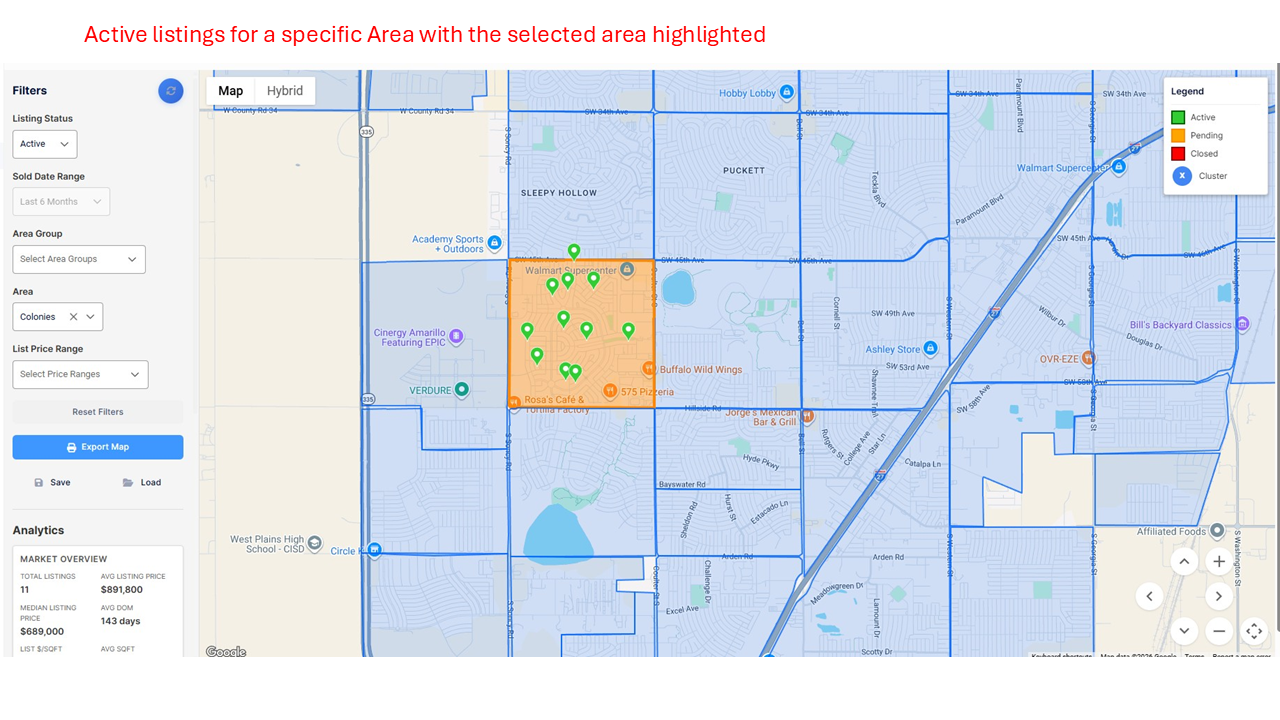
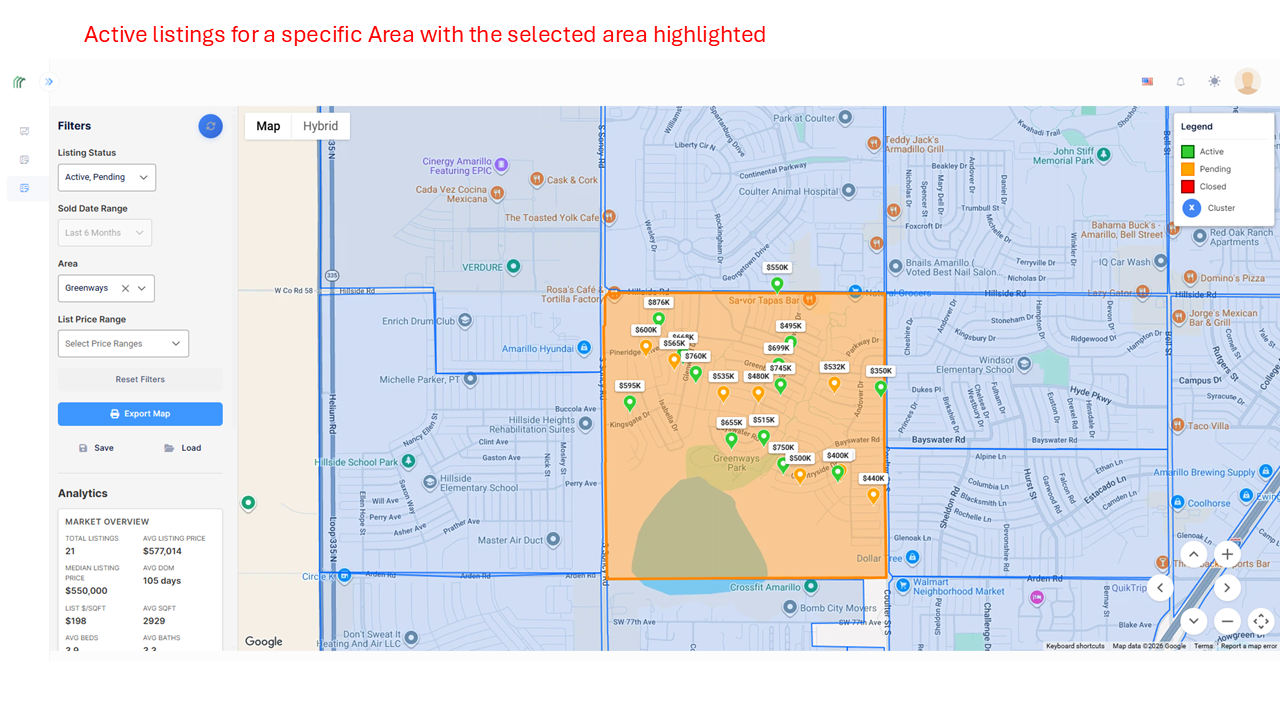
Update listing map, dashboard, navigation, and report schedule docs and images
Add pin price label and closed-listing sold price to listing map docs, add
dashboard Area filter section, update nav menu screenshots (admin, collapsed,
reporting, listings), remove Contacts nav section, fix report schedule typo
and docs-nav.json JSON errors.

diff --git a/ListingMap/listing-map.md b/ListingMap/listing-map.md
@@ -4,6 +4,8 @@ The Listing Map uses a Google Maps framework to display Active, Pending, and Clo
 
 The Analytics panel calculations use the current List Price for Active and Pending listings and the Closed price for Closed listings. When MLS data is loaded each day, all Active and Pending listings are included, but the data set includes only 13 months of Closed listings. Any Closed listing older than 13 months is ignored and not displayed on the map or in reports. 
 
+When the map is zoomed in far enough to distinguish individual pins, a label appears above each pin showing its List Price (Active or Pending) or Sold Price (Closed). Clicking a pin opens a details dialog with more information about the property; for Closed listings, this dialog also includes the Sold Price.
+
 The **Listing Status** filter can be either Active, Pending, Active and Pending, or Closed. All three status values cannot be selected together to avoid confusion in the Analytics calculations.
 
 The **Sold Date Range** filter is only available when the Status filter has Closed listings selected.
@@ -14,7 +16,7 @@ If a tenant has defined **Area Groups** for their MLS Area data, an Area Group d
 
 The **Reset Filters** button returns the map filters to the default of Active and Pending listing status with no other filters applied.
 
-The **Export Map'** button opens a Print dialog with two pages: the first is the map rendering, and the second contains the Analytics values. The user can save the output as a PDF or print it if printing is available.
+The **Export Map** button opens a Print dialog with two pages: the first is the map rendering, and the second contains the Analytics values. The user can save the output as a PDF or print it if printing is available.
 
 The **Save** button allows a user to save a map filter configuration for later use. A user can save up to 25 map filters.
 
@@ -26,10 +28,8 @@ The **Load** button allows a user to load a previously saved map filter.
 
 
 ## Listing Map - Example 2
-An example of selecting a specific Area for Active listings. The selected Area is highlighted and the Analytics calculated for the pins displayed. The pin details can be viewed by clicking on the pin.
+An example of selecting a specific Area for Active listings. The selected Area is highlighted and the Analytics calculated for the pins displayed. Since the map is zoomed in, each pin also shows its List Price label. The pin details can be viewed by clicking on the pin.
 
 ![ListingMap](../images/listingmap/reda_web_listingmap_2.png)
-
-
 
 

diff --git a/Web/navigation.md b/Web/navigation.md
@@ -18,7 +18,7 @@ Administrator Role Menu
 
 Menu Collapsed
 
-![reda_web_menu_image](../images/web/reda_web_menu_agent_collapse.png)
+![reda_web_menu_image](../images/web/reda_web_menu_collapsed.png)
 
 
 Available navigation options:
@@ -29,13 +29,13 @@ Available navigation options:
    - Reports: A list of Reports available to or created by a user for the assigned application Role.
    - Schedules: A report or reports the user has created and can schedule for automatic email delivery to the application user.
 
+![reda_web_menu_image](../images/web/reda_web_menu_reporting.png)
+
 - ###### Listings
    - Listing Map: A Google map populated with pins for Active, Pending, and Closed Listings. For the pins visible on the map, a basic set of Analytic numbers is provided. Up to 25 Filter choices can be saved using the "Save" button and reloaded later using the "Load" button. When a map needs to be "Refreshed", the refresh button at the top of the Filter panel turns orange. You may need to scroll the panel to the top of the page for the refresh button to work correctly. Anytime the filters are refreshed, the analytics are recalculated.
 
-- ###### Contacts (Admin user only)
-   - Contacts: Only available to an Admin Role, for now. A User's Contacts are available for emailing or texting graphs and data report output. The ability to Import Contacts from other sources is provided.
-   - Contact Lists: An organizational feature for grouping different Contacts into a specific list.
- 
+![reda_web_menu_image](../images/web/reda_web_menu_listings.png)
+
 - ###### Administration (Admin user only)
    - Administration is where user information and application settings are configured for the Tenant's application by Administrators.
    - Only users with the Administrator role will see the Administration menu options

diff --git a/Reports/report-schedule.md b/Reports/report-schedule.md
@@ -1,6 +1,6 @@
 ## Report Schedule
 
-The Report Schedule feature allows a user to select one or more Reports previously created in the Web Application or Moblie App and have those reports emailed to  the user's email address at a scheduled time. The selected Reports are rendered using the Report's current Report Criteria. The rendered Reports are attached to an email as a PDF, along with a link to download the Reports.
+The Report Schedule feature allows a user to select one or more Reports previously created in the Web Application or Mobile App and have those reports emailed to the user's email address at a scheduled time. The selected Reports are rendered using the Report's current Report Criteria. The rendered Reports are attached to an email as a PDF, along with a link to download the Reports.
 
 A User can Create, Edit, or Delete a Report Schedule. Each row in the Report Schedules View allows two Actions: Edit and Delete. Those Actions affect only the Report Schedule selected. Report Schedules are specific to a User and will not be available to any other User.
 

diff --git a/Web/dashboard/dashboard_navigation.md b/Web/dashboard/dashboard_navigation.md
@@ -12,6 +12,12 @@ For some dashboard reports additional data filters may be available. The Dashboa
 
 ***
 
+For the Sales, Months of Inventory, and Sold Counts by Month graphs, an additional Area filter is available. Select one or more Areas to limit the graph's data to those Areas.
+
+![reda_web_dashboard_filter_area.PNG](../../images/web/reda_web_dashboard_filter_area.PNG)
+
+***
+
 To [Export](export.md) a selected report use the Export icon.
 
 ![reda_web_dashboard_xport.PNG](../../images/web/reda_web_dashboard_xport.PNG)
